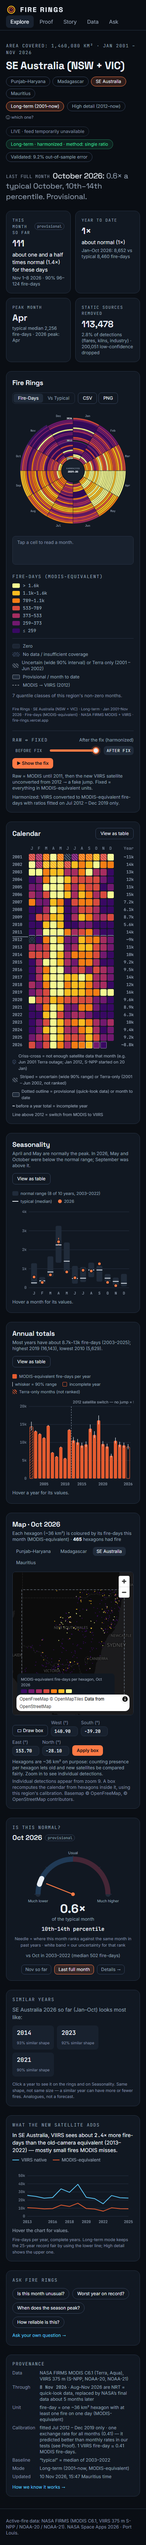
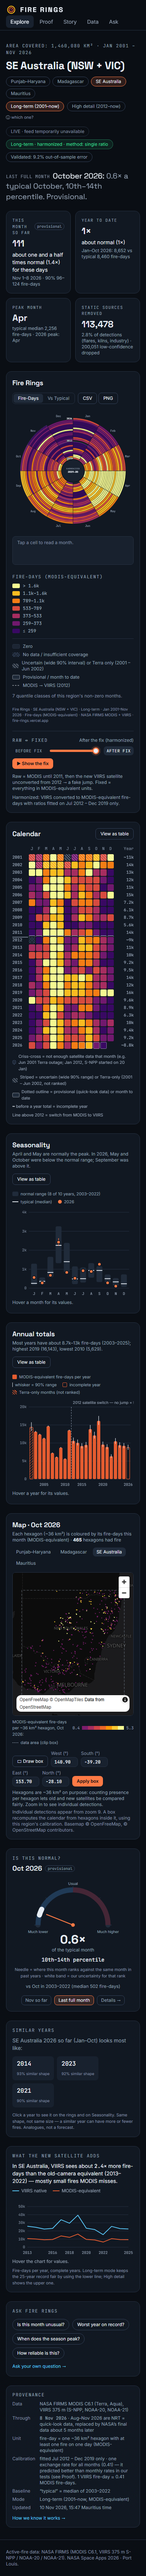
fix(#17,#18,#20,#21,#2): map legend below, brighter ramp, live layer off/beneath, outline only for clip boxes, no maritime rings

Changed region(s): [[0.0308, 0.0, 0.9231, 0.9966], [0.8308, 0.4983, 0.8615, 0.5294]]

diff --git a/web/src/components/MapView.tsx b/web/src/components/MapView.tsx
@@ -11,7 +11,8 @@ import { factorOf, monthCells } from '../lib/hexes'
 import type { Box, HexRes } from '../lib/hexes'
 import type { LiveData } from '../lib/live'
 import { REGIONS } from '../lib/regions'
-import { COUNT_COLORS } from '../lib/scales'
+import { MAP_COLORS } from '../lib/scales'
+import { tidyBasemap } from '../lib/mapStyle'
 import { MONTHS } from '../lib/series'
 import type { RegionDoc } from '../lib/types'
 
@@ -75,10 +76,12 @@ export default function MapView({ doc, y, m, box, onBox, live }: Props) {
   const [stats, setStats] = useState<{ cells: number; min: number; max: number } | null>(null)
   const [pts, setPts] = useState<{ n: number; available: boolean } | null>(null)
   const [zoom, setZoom] = useState(0)
-  const [showLive, setShowLive] = useState(true)
+  // QA #17: live layer off by default on the map (the badge still shows the count); hexagons stay the main visual
+  const [showLive, setShowLive] = useState(false)
   const [inInset, setInInset] = useState(false)
   const view = (doc.geo?.view_bbox ?? doc.bbox) as [number, number, number, number]
   const small = !!doc.geo?.small
+  const clipped = doc.area_km2 != null
   const [inputs, setInputs] = useState<string[]>(() => (box ?? view).map((v) => v.toFixed(2)))
   const navigate = useNavigate()
   const drawRef = useRef(false)
@@ -99,14 +102,16 @@ export default function MapView({ doc, y, m, box, onBox, live }: Props) {
     })
     mp.on('zoomend', () => setZoom(mp.getZoom()))
     mp.on('load', () => {
+      tidyBasemap(mp)
       setZoom(mp.getZoom())
       mp.addImage('tri-viirs', triangleIcon(C_VIIRS))
-      mp.addSource('region', { type: 'geojson', data: boxFeature(doc.bbox) })
-      mp.addLayer({ id: 'region', type: 'line', source: 'region', paint: { 'line-color': '#93A1B3', 'line-width': 1, 'line-dasharray': [3, 2] } })
+      // QA #20: outline only where the data really is a rectangle (a clip box); whole-country files follow the coastline
+      mp.addSource('region', { type: 'geojson', data: clipped ? boxFeature(doc.bbox) : EMPTY })
+      mp.addLayer({ id: 'region', type: 'line', source: 'region', paint: { 'line-color': '#93A1B3', 'line-width': 1, 'line-dasharray': [3, 2], 'line-opacity': 0.7 } })
       mp.addSource('hex', { type: 'geojson', data: EMPTY })
       // softer hexagons so place names stay readable
-      mp.addLayer({ id: 'hex', type: 'fill', source: 'hex', paint: { 'fill-color': ['get', 'c'], 'fill-opacity': ['interpolate', ['linear'], ['zoom'], 5, 0.55, 9, 0.35, 12, 0.2] } })
-      mp.addLayer({ id: 'hex-line', type: 'line', source: 'hex', paint: { 'line-color': ['get', 'c'], 'line-width': 0.6, 'line-opacity': 0.7 } })
+      mp.addLayer({ id: 'hex', type: 'fill', source: 'hex', paint: { 'fill-color': ['get', 'c'], 'fill-opacity': ['interpolate', ['linear'], ['zoom'], 5, 0.8, 9, 0.5, 12, 0.3] } })
+      mp.addLayer({ id: 'hex-line', type: 'line', source: 'hex', paint: { 'line-color': ['get', 'c'], 'line-width': 0.9, 'line-opacity': 0.9 } })
       mp.addSource('pts', { type: 'geojson', data: EMPTY })
       const pz = small ? 0 : POINT_ZOOM
       mp.addLayer({ id: 'pts-modis', type: 'circle', source: 'pts', minzoom: pz, filter: ['==', ['get', 's'], 0],
@@ -114,9 +119,10 @@ export default function MapView({ doc, y, m, box, onBox, live }: Props) {
       mp.addLayer({ id: 'pts-viirs', type: 'symbol', source: 'pts', minzoom: pz, filter: ['==', ['get', 's'], 1],
         layout: { 'icon-image': 'tri-viirs', 'icon-size': ['interpolate', ['linear'], ['zoom'], 8, 0.5, 13, 0.9], 'icon-allow-overlap': true } })
       mp.addSource('live', { type: 'geojson', data: EMPTY })
+      // small, faint, filled dots drawn beneath the hexagons (QA #17)
       mp.addLayer({ id: 'live', type: 'circle', source: 'live', paint: {
-        'circle-radius': ['interpolate', ['linear'], ['zoom'], 4, 2.5, 12, 7], 'circle-color': 'rgba(0,0,0,0)',
-        'circle-stroke-color': C_LIVE, 'circle-stroke-width': 1.6 } })
+        'circle-radius': ['interpolate', ['linear'], ['zoom'], 4, 1.2, 8, 2, 12, 4], 'circle-color': C_LIVE, 'circle-opacity': 0.55,
+        'circle-stroke-width': 0 } }, 'hex')
       mp.addSource('box', { type: 'geojson', data: EMPTY })
       mp.addLayer({ id: 'box-fill', type: 'fill', source: 'box', paint: { 'fill-color': '#5AC8FA', 'fill-opacity': 0.06 } })
       mp.addLayer({ id: 'box-line', type: 'line', source: 'box', paint: { 'line-color': '#5AC8FA', 'line-width': 2 } })
@@ -165,7 +171,7 @@ export default function MapView({ doc, y, m, box, onBox, live }: Props) {
       const breaks = [1, 2, 3, 4, 5, 6].map((i) => q(i / 7))
       const cls = (v: number) => { let c = 0; while (c < breaks.length && v > breaks[c]) c++; return c }
       const features = cells.map((c) => ({
-        type: 'Feature' as const, properties: { v: c.v, c: COUNT_COLORS[cls(c.v)] },
+        type: 'Feature' as const, properties: { v: c.v, c: MAP_COLORS[cls(c.v)] },
         geometry: { type: 'Polygon' as const, coordinates: [cellToBoundary(c.id, true)] },
       }))
       ;(map.current.getSource('hex') as GeoJSONSource)?.setData({ type: 'FeatureCollection', features })
@@ -255,35 +261,33 @@ export default function MapView({ doc, y, m, box, onBox, live }: Props) {
       <div className="relative overflow-hidden rounded-sm border border-border">
         <div ref={el} className="h-[380px] w-full bg-bg sm:h-[440px]" role="region" aria-label={`Map of ${doc.name} fire hexagons for ${MONTHS[m - 1]} ${y}`} />
         {err && <div className="absolute inset-x-3 top-3 rounded-sm border border-danger/40 bg-surface-2 px-3 py-2 text-xs text-danger">{err}</div>}
-        <div className="absolute bottom-3 left-3 max-w-[260px] space-y-1.5 rounded-sm bg-surface/90 px-2.5 py-2 text-[10px] backdrop-blur">
-          {stats && stats.cells > 0 && (
-            <div>
-              <div className="mb-1 text-muted">{doc.mode === 'detail' ? 'VIIRS native' : 'MODIS-equivalent'} fire-days per hexagon, {MONTHS[m - 1]} {y}</div>
-              <div className="flex items-center gap-1">{COUNT_COLORS.map((c) => <span key={c} className="h-2.5 w-4 rounded-[2px]" style={{ background: c }} />)}</div>
-              <div className="num mt-0.5 flex justify-between text-faint"><span>{stats.min < 10 ? stats.min.toFixed(1) : fmtCompact(stats.min)}</span><span>{stats.max < 10 ? stats.max.toFixed(1) : fmtCompact(stats.max)}</span></div>
-            </div>
-          )}
-          {pointsVisible && (
-            <div className="flex flex-wrap gap-x-3 text-muted">
-              <span><span style={{ color: C_MODIS }}>●</span> MODIS</span>
-              <span><span style={{ color: C_VIIRS }}>▲</span> VIIRS</span>
-              <span className="text-faint">{fmtInt(pts?.n ?? 0)} detections</span>
-            </div>
-          )}
-          {live?.ok && showLive && (
-            <div className="text-muted"><span style={{ color: C_LIVE }}>◯</span> live 72 h — near-real-time, provisional</div>
-          )}
-          <div className="flex flex-col gap-0.5 text-muted">
-            <span className="flex items-center gap-1.5"><span className="inline-block h-0 w-4 border-t border-dashed border-[#93A1B3]" />data area (region edge)</span>
-            {box && <span className="flex items-center gap-1.5"><span className="inline-block h-0 w-4 border-t-2 border-[#5AC8FA]" />your box</span>}
-          </div>
-        </div>
         {inset && (
           <button onClick={toggleInset} className="absolute top-3 left-3 rounded-sm border border-border-strong bg-surface/90 px-2.5 py-1 text-xs text-text backdrop-blur hover:bg-surface-2">
             {inInset ? `← ${doc.name.split(' (')[0]}` : `${inset.name} →`}
           </button>
         )}
         {drawing && <div className="absolute top-12 left-3 rounded-sm bg-accent px-2.5 py-1 text-xs font-semibold text-bg">Drag on the map to draw a box</div>}
+      </div>
+      {/* QA #21: legend below the map, never over the fires */}
+      <div className="mt-2 flex flex-wrap items-center gap-x-5 gap-y-1.5 text-[11px] text-muted" data-testid="map-legend">
+        {stats && stats.cells > 0 && (
+          <span className="flex items-center gap-1.5">
+            <span>{doc.mode === 'detail' ? 'VIIRS native' : 'MODIS-equivalent'} fire-days per {res === 7 ? '~5 km²' : '~36 km²'} hexagon, {MONTHS[m - 1]} {y}:</span>
+            <span className="num text-faint">{stats.min < 10 ? stats.min.toFixed(1) : fmtCompact(stats.min)}</span>
+            <span className="inline-flex">{MAP_COLORS.map((c) => <span key={c} className="h-2.5 w-4" style={{ background: c }} />)}</span>
+            <span className="num text-faint">{stats.max < 10 ? stats.max.toFixed(1) : fmtCompact(stats.max)}</span>
+          </span>
+        )}
+        {pointsVisible && (
+          <span className="flex items-center gap-2">
+            <span><span style={{ color: C_MODIS }}>●</span> MODIS detection</span>
+            <span><span style={{ color: C_VIIRS }}>▲</span> VIIRS detection</span>
+            <span className="text-faint">({fmtInt(pts?.n ?? 0)})</span>
+          </span>
+        )}
+        {live?.ok && showLive && <span><span style={{ color: C_LIVE }}>●</span> live 72 h — raw, provisional, not in the record</span>}
+        {clipped && <span className="flex items-center gap-1.5"><span className="inline-block h-0 w-4 border-t border-dashed border-[#93A1B3]" />data area (clip box)</span>}
+        {box && <span className="flex items-center gap-1.5"><span className="inline-block h-0 w-4 border-t-2 border-[#5AC8FA]" />your box</span>}
       </div>
       <div className="mt-3 flex flex-wrap items-end gap-2 text-xs">
         <button onClick={() => setDrawing((d) => !d)} aria-pressed={drawing}

diff --git a/web/src/components/GlobeTimelapse.tsx b/web/src/components/GlobeTimelapse.tsx
@@ -7,6 +7,7 @@ import { fmtInt } from '../lib/format'
 import { agoText } from '../lib/live'
 import type { LiveData } from '../lib/live'
 import { MONTHS } from '../lib/series'
+import { tidyBasemap } from '../lib/mapStyle'
 import type { RegionDoc } from '../lib/types'
 
 setWorkerUrl(workerUrl)
@@ -52,6 +53,7 @@ export default function GlobeTimelapse({ docs, live }: Props) {
       mp.setProjection({ type: 'globe' })
     })
     mp.on('load', () => {
+      tidyBasemap(mp, { borderOpacity: 0.35 })
       mp.addSource('fire', { type: 'geojson', data: { type: 'FeatureCollection', features: [] } })
       mp.addLayer({ id: 'fire-glow', type: 'circle', source: 'fire', paint: {
         'circle-radius': ['interpolate', ['linear'], ['get', 't'], 0, 4, 1, 46], 'circle-color': ['get', 'c'],

diff --git a/web/src/lib/mapStyle.ts b/web/src/lib/mapStyle.ts
@@ -1,0 +1,13 @@
+// Basemap clean-up (QA #2, #20): hide maritime boundary lines (the rings around small islands) on the OpenFreeMap
+// dark style; optionally fade the remaining borders so fire stays the main visual.
+import type { Map as MlMap } from 'maplibre-gl'
+
+export function tidyBasemap(map: MlMap, opts: { borderOpacity?: number } = {}) {
+  for (const layer of map.getStyle().layers ?? []) {
+    if (layer.type !== 'line' || (layer as { 'source-layer'?: string })['source-layer'] !== 'boundary') continue
+    const f = map.getFilter(layer.id)
+    const noSea = ['!=', ['get', 'maritime'], 1]
+    map.setFilter(layer.id, (f ? ['all', f, noSea] : noSea) as never)
+    if (opts.borderOpacity != null) map.setPaintProperty(layer.id, 'line-opacity', opts.borderOpacity)
+  }
+}

diff --git a/web/src/lib/scales.ts b/web/src/lib/scales.ts
@@ -3,6 +3,9 @@ import { quantile } from 'd3-array'
 
 /** Counts ramp: inferno sampled t ∈ [0.18, 0.98] (bottom of inferno vanishes on the dark background). */
 export const N_CLASSES = 7
+/** Map ramp (QA #18): the same Inferno ramp started brighter (0.34 → 0.98) so the lowest class stays visible on the dark basemap. */
+export const MAP_COLORS = Array.from({ length: N_CLASSES }, (_, i) => interpolateInferno(0.34 + (0.64 * i) / (N_CLASSES - 1)))
+
 export const COUNT_COLORS = Array.from({ length: N_CLASSES }, (_, i) =>
   interpolateInferno(0.18 + (0.8 * i) / (N_CLASSES - 1)),
 )
